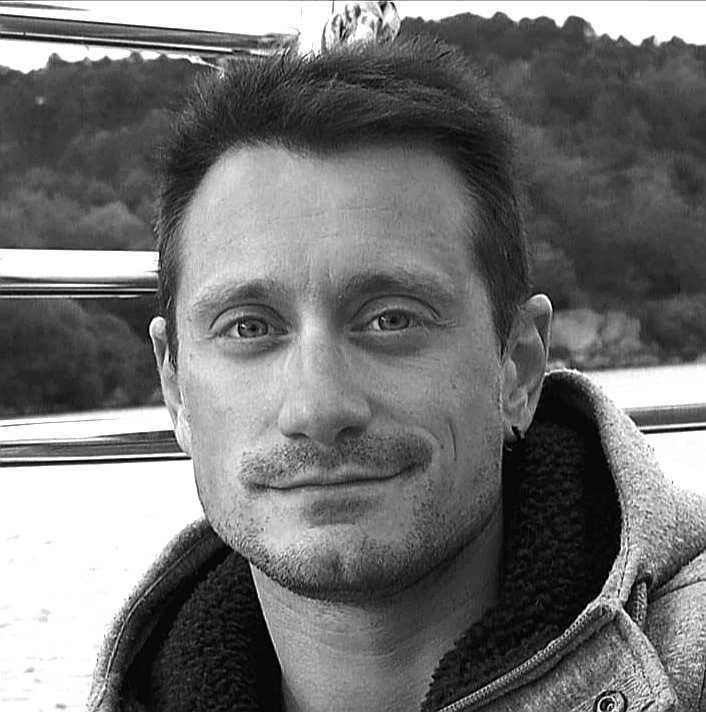
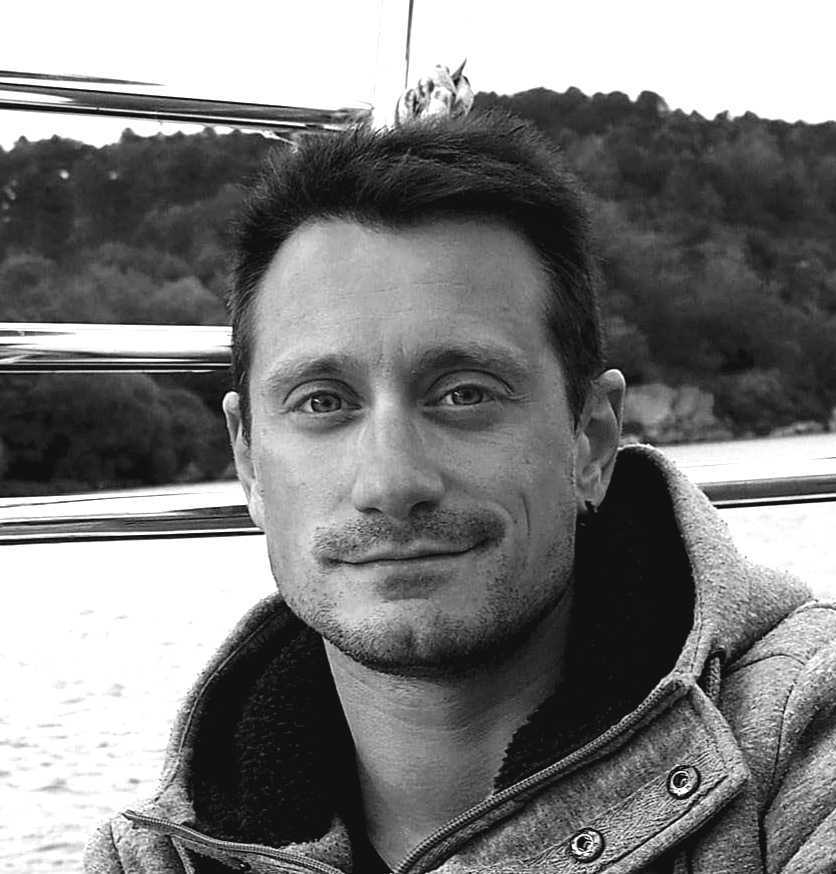
front/fix: all pictures about

diff --git a/front/src/components/About/index.js b/front/src/components/About/index.js
@@ -1,6 +1,6 @@
 import React from 'react';
 import './styles.scss';
-import radarImgPath from 'src/assets/img/radar.svg';
+import flo from 'src/assets/img/flo.jpg';
 import fred from 'src/assets/img/fred.jpg';
 import jerem from 'src/assets/img/jerem.jpg';
 import annekim from 'src/assets/img/anne-kim.jpg';
@@ -29,7 +29,7 @@ const About = () => (
 
         <article className="about__members__team">
         <div className="about__members__team__imageRight">
-          <img className="about__members__team__img" src={radarImgPath} alt="photo visage membre2" />
+          <img className="about__members__team__img" src={flo} alt="photo visage membre2" />
           </div>
           <div className="about__members__team__texte"> 
           <h2 className="about__members__team__name">Florian<br></br>SANDERS</h2>

diff --git a/front/src/components/About/styles.scss b/front/src/components/About/styles.scss
@@ -31,8 +31,8 @@
       font-family: $font-title;
       box-shadow: $shadow;
       text-align: center;
-      min-height: 55vh;
-      margin: 0 0 2rem 0;
+      // min-height: 55vh;
+      margin: 2rem 0;
 
       &__name {
         color: #566970;
@@ -44,7 +44,8 @@
       &__img {
         background: #fff;
         max-width: 190px;
-        width: 100%;
+        min-width: 190px;
+        // width: 100%;
         height: 190px;
         margin: 0 auto;
         margin-bottom: 1rem;

diff --git a/front/src/components/Error/index.js b/front/src/components/Error/index.js
@@ -5,7 +5,7 @@ import './styles.scss';
 const Error = () => {
     return(
         <div className="errorPage">
-            <img className="errorPage__picture" src={ErrorPage} alt="error-image" />
+            <img className="errorPage__picture" src={ErrorPage} alt="page-non-trouvé" />
         </div>
     );
 };

diff --git a/front/src/components/SignUp/FieldGroup.js b/front/src/components/SignUp/FieldGroup.js
@@ -47,7 +47,7 @@ const FieldGroup = ({
       />
       {
         message && (
-          <p>{message}</p>
+          <p className="message--warning">{message}</p>
         )
       }
     </div>
